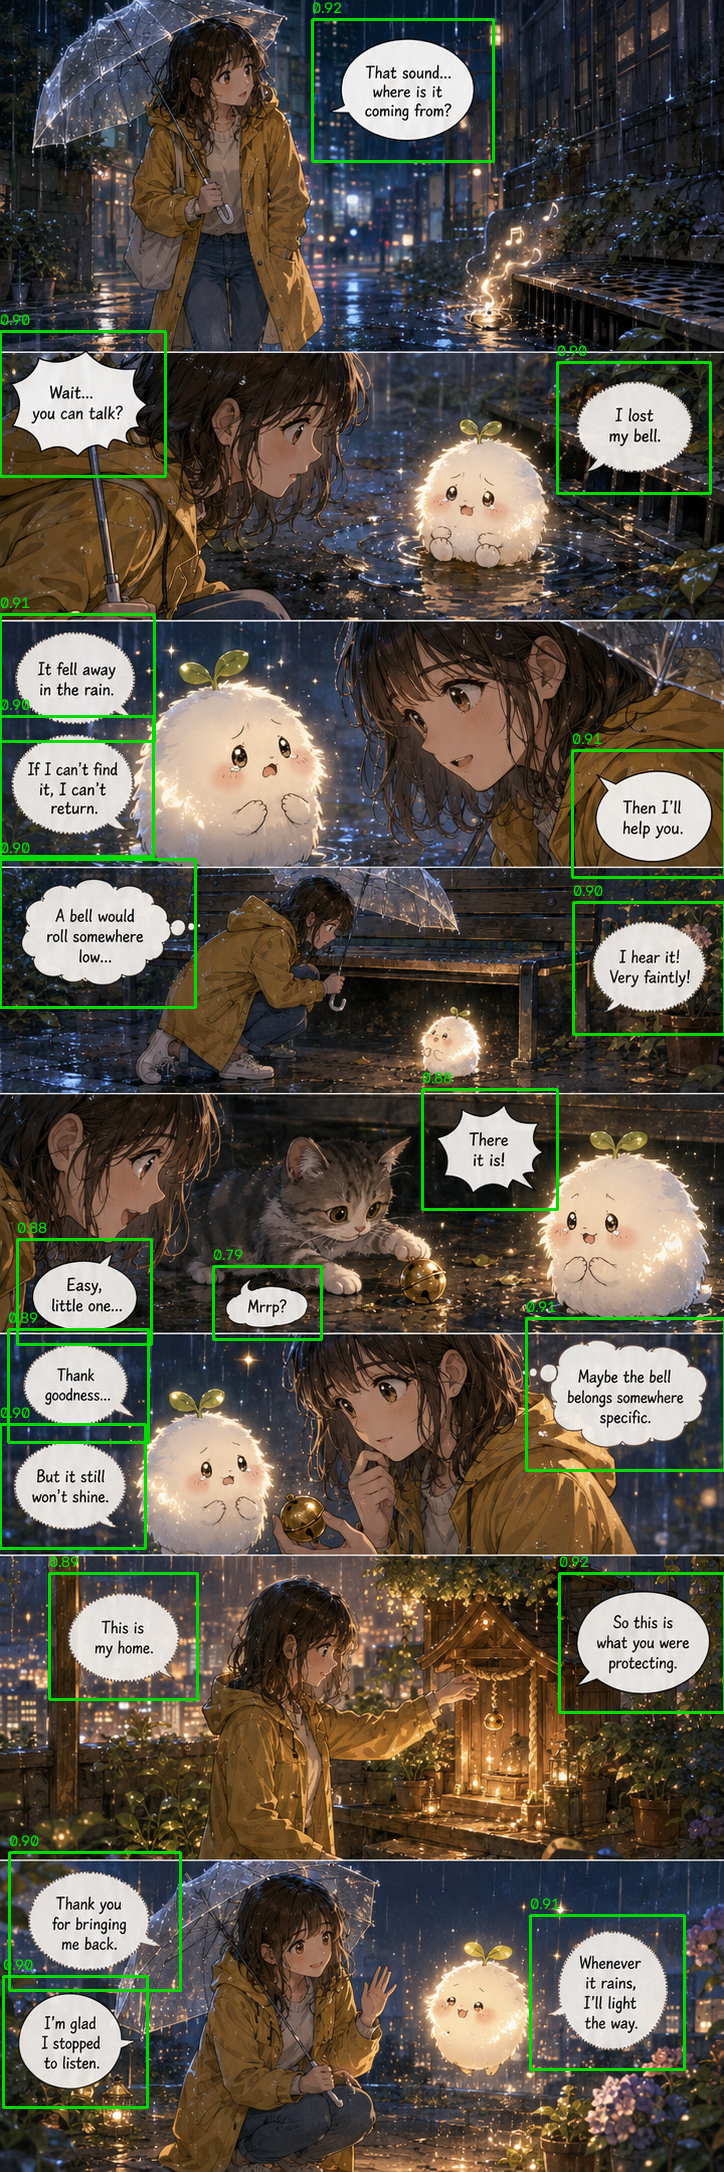
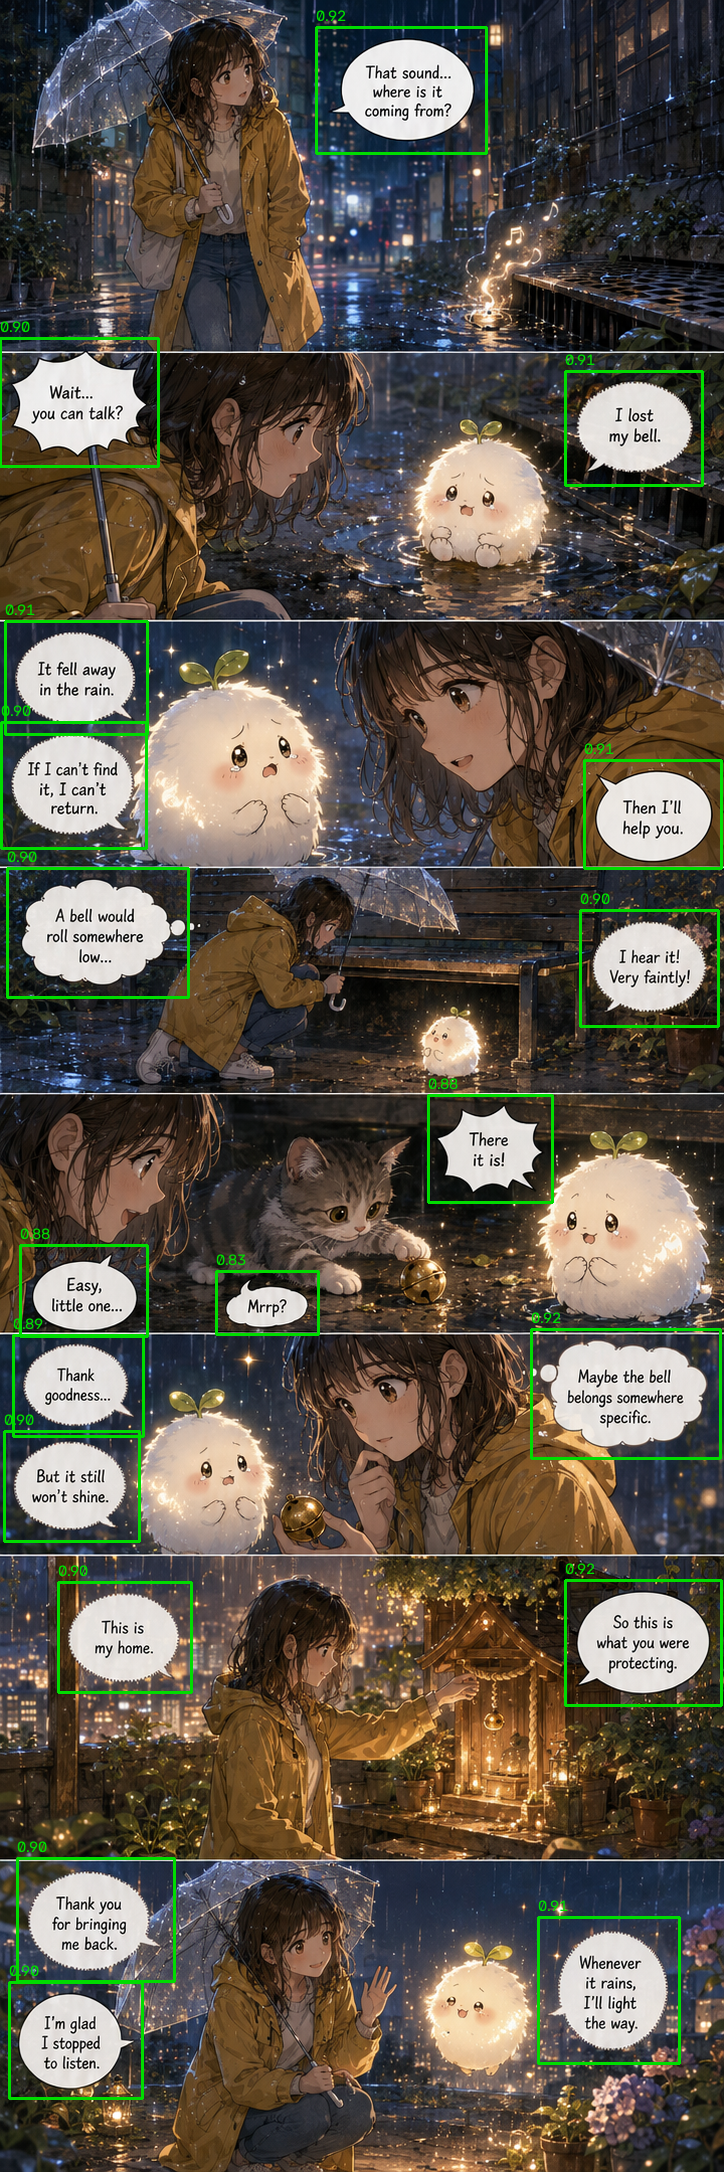
Refresh detector documentation

diff --git a/README.md b/README.md
@@ -114,7 +114,20 @@ returns a list. Box coordinates use half-open `xyxy` bounds, so
 
 `Yolo26BubbleDetector` is the default detector. It uses the bundled
 `speech_bubble_yolo26s.pt` checkpoint, which was fine-tuned for this reconstruction
-on a public speech-bubble dataset. The default inference image size is 800 pixels.
+on a public speech-bubble dataset.
+
+Default detector and long-page settings:
+
+| Setting | Default |
+| --- | ---: |
+| Detector confidence | 0.25 |
+| Detector NMS IoU | 0.70 |
+| Inference image size | 800 px |
+| Tile height | 1600 px |
+| Tile overlap | 256 px |
+| Cross-tile duplicate IoU | 0.50 |
+| Cross-tile containment | 0.80 |
+| Detection expansion | 5% per side |
 
 See [docs/model_choices.md](docs/model_choices.md) for training provenance and
 [THIRD_PARTY_NOTICES.md](THIRD_PARTY_NOTICES.md) for dependency licenses.
